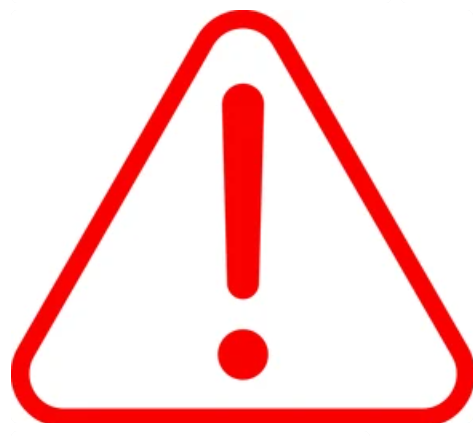
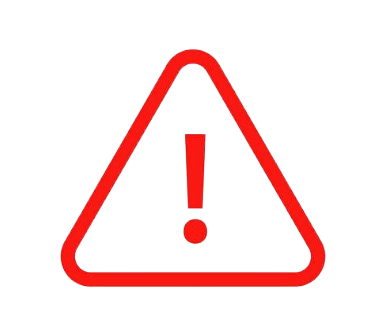
create po form

Changed region(s): [[0.0, 0.0, 1.0, 0.9851]]

diff --git a/ITP4519M/CreatePurchaseOrder.Designer.cs b/ITP4519M/CreatePurchaseOrder.Designer.cs
@@ -1,0 +1,184 @@
+namespace ITP4519M
+{
+    partial class CreatePurchaseOrder
+    {
+        /// <summary>
+        /// Required designer variable.
+        /// </summary>
+        private System.ComponentModel.IContainer components = null;
+
+        /// <summary>
+        /// Clean up any resources being used.
+        /// </summary>
+        /// <param name="disposing">true if managed resources should be disposed; otherwise, false.</param>
+        protected override void Dispose(bool disposing)
+        {
+            if (disposing && (components != null))
+            {
+                components.Dispose();
+            }
+            base.Dispose(disposing);
+        }
+
+        #region Windows Form Designer generated code
+
+        /// <summary>
+        /// Required method for Designer support - do not modify
+        /// the contents of this method with the code editor.
+        /// </summary>
+        private void InitializeComponent()
+        {
+            button1 = new Button();
+            dataGridView1 = new DataGridView();
+            label1 = new Label();
+            orderDateBox = new DateTimePicker();
+            label12 = new Label();
+            label2 = new Label();
+            dataGridView2 = new DataGridView();
+            label3 = new Label();
+            dataGridView3 = new DataGridView();
+            label4 = new Label();
+            ((System.ComponentModel.ISupportInitialize)dataGridView1).BeginInit();
+            ((System.ComponentModel.ISupportInitialize)dataGridView2).BeginInit();
+            ((System.ComponentModel.ISupportInitialize)dataGridView3).BeginInit();
+            SuspendLayout();
+            // 
+            // button1
+            // 
+            button1.FlatAppearance.BorderSize = 0;
+            button1.FlatStyle = FlatStyle.Flat;
+            button1.Font = new Font("Verdana", 16.2F, FontStyle.Bold, GraphicsUnit.Point, 0);
+            button1.Location = new Point(568, 12);
+            button1.Margin = new Padding(2, 3, 2, 3);
+            button1.Name = "button1";
+            button1.Size = new Size(40, 49);
+            button1.TabIndex = 34;
+            button1.Text = "X";
+            button1.UseVisualStyleBackColor = true;
+            // 
+            // dataGridView1
+            // 
+            dataGridView1.ColumnHeadersHeightSizeMode = DataGridViewColumnHeadersHeightSizeMode.AutoSize;
+            dataGridView1.Location = new Point(22, 427);
+            dataGridView1.Name = "dataGridView1";
+            dataGridView1.RowHeadersWidth = 51;
+            dataGridView1.Size = new Size(569, 183);
+            dataGridView1.TabIndex = 35;
+            // 
+            // label1
+            // 
+            label1.AutoSize = true;
+            label1.Location = new Point(22, 390);
+            label1.Name = "label1";
+            label1.Size = new Size(146, 20);
+            label1.TabIndex = 36;
+            label1.Text = "Supplier information";
+            // 
+            // orderDateBox
+            // 
+            orderDateBox.Location = new Point(264, 96);
+            orderDateBox.MinDate = new DateTime(2010, 7, 27, 0, 0, 0, 0);
+            orderDateBox.Name = "orderDateBox";
+            orderDateBox.Size = new Size(250, 27);
+            orderDateBox.TabIndex = 88;
+            orderDateBox.Visible = false;
+            // 
+            // label12
+            // 
+            label12.AutoSize = true;
+            label12.Font = new Font("Microsoft Sans Serif", 10.2F, FontStyle.Regular, GraphicsUnit.Point, 0);
+            label12.Location = new Point(89, 101);
+            label12.Margin = new Padding(5, 0, 5, 0);
+            label12.Name = "label12";
+            label12.Size = new Size(103, 20);
+            label12.TabIndex = 87;
+            label12.Text = "Order Date :";
+            label12.Visible = false;
+            // 
+            // label2
+            // 
+            label2.AutoSize = true;
+            label2.Location = new Point(22, 144);
+            label2.Name = "label2";
+            label2.Size = new Size(203, 20);
+            label2.TabIndex = 90;
+            label2.Text = "LM Contact staff information ";
+            // 
+            // dataGridView2
+            // 
+            dataGridView2.ColumnHeadersHeightSizeMode = DataGridViewColumnHeadersHeightSizeMode.AutoSize;
+            dataGridView2.Location = new Point(22, 181);
+            dataGridView2.Name = "dataGridView2";
+            dataGridView2.RowHeadersWidth = 51;
+            dataGridView2.Size = new Size(569, 187);
+            dataGridView2.TabIndex = 89;
+            // 
+            // label3
+            // 
+            label3.AutoSize = true;
+            label3.Location = new Point(22, 630);
+            label3.Name = "label3";
+            label3.Size = new Size(128, 20);
+            label3.TabIndex = 92;
+            label3.Text = "Purchase Products";
+            // 
+            // dataGridView3
+            // 
+            dataGridView3.ColumnHeadersHeightSizeMode = DataGridViewColumnHeadersHeightSizeMode.AutoSize;
+            dataGridView3.Location = new Point(22, 662);
+            dataGridView3.Name = "dataGridView3";
+            dataGridView3.RowHeadersWidth = 51;
+            dataGridView3.Size = new Size(569, 204);
+            dataGridView3.TabIndex = 91;
+            // 
+            // label4
+            // 
+            label4.AutoSize = true;
+            label4.Font = new Font("Segoe UI", 16.2F, FontStyle.Bold, GraphicsUnit.Point, 0);
+            label4.ForeColor = SystemColors.WindowText;
+            label4.Location = new Point(111, 37);
+            label4.Name = "label4";
+            label4.Size = new Size(376, 38);
+            label4.TabIndex = 93;
+            label4.Text = "Create New Purchase Order";
+            // 
+            // CreatePurchaseOrder
+            // 
+            AutoScaleDimensions = new SizeF(8F, 20F);
+            AutoScaleMode = AutoScaleMode.Font;
+            ClientSize = new Size(619, 828);
+            Controls.Add(label4);
+            Controls.Add(label3);
+            Controls.Add(dataGridView3);
+            Controls.Add(label2);
+            Controls.Add(dataGridView2);
+            Controls.Add(orderDateBox);
+            Controls.Add(label12);
+            Controls.Add(label1);
+            Controls.Add(dataGridView1);
+            Controls.Add(button1);
+            FormBorderStyle = FormBorderStyle.None;
+            Name = "CreatePurchaseOrder";
+            Text = "CreatePurchaseOrder";
+            Load += CreatePurchaseOrder_Load;
+            ((System.ComponentModel.ISupportInitialize)dataGridView1).EndInit();
+            ((System.ComponentModel.ISupportInitialize)dataGridView2).EndInit();
+            ((System.ComponentModel.ISupportInitialize)dataGridView3).EndInit();
+            ResumeLayout(false);
+            PerformLayout();
+        }
+
+        #endregion
+
+        private Button button1;
+        private DataGridView dataGridView1;
+        private Label label1;
+        private DateTimePicker orderDateBox;
+        private Label label12;
+        private Label label2;
+        private DataGridView dataGridView2;
+        private Label label3;
+        private DataGridView dataGridView3;
+        private Label label4;
+    }
+}

diff --git a/ITP4519M/RegisterForm.Designer.cs b/ITP4519M/RegisterForm.Designer.cs
@@ -90,7 +90,7 @@ namespace ITP4519M
             registerDisplaynameBox.BackColor = SystemColors.Menu;
             registerDisplaynameBox.BorderStyle = BorderStyle.None;
             registerDisplaynameBox.Font = new Font("Microsoft Sans Serif", 10.2F, FontStyle.Regular, GraphicsUnit.Point, 0);
-            registerDisplaynameBox.Location = new Point(5, 7);
+            registerDisplaynameBox.Location = new Point(5, 4);
             registerDisplaynameBox.Margin = new Padding(5, 4, 5, 4);
             registerDisplaynameBox.Name = "registerDisplaynameBox";
             registerDisplaynameBox.Size = new Size(179, 20);
@@ -444,6 +444,8 @@ namespace ITP4519M
             // 
             // pictureBox1
             // 
+            pictureBox1.Image = Properties.Resources.red_alert;
+            pictureBox1.InitialImage = null;
             pictureBox1.Location = new Point(187, 2);
             pictureBox1.Margin = new Padding(3, 2, 3, 2);
             pictureBox1.Name = "pictureBox1";
@@ -460,16 +462,17 @@ namespace ITP4519M
             panel3.Controls.Add(registerDisplaynameBox);
             panel3.Location = new Point(532, 165);
             panel3.Name = "panel3";
-            panel3.Size = new Size(216, 31);
+            panel3.Size = new Size(218, 28);
             panel3.TabIndex = 78;
             panel3.Paint += panel3_Paint;
             // 
             // pictureBox3
             // 
-            pictureBox3.Location = new Point(183, 2);
+            pictureBox3.Image = Properties.Resources.red_alert;
+            pictureBox3.Location = new Point(188, 2);
             pictureBox3.Margin = new Padding(3, 2, 3, 2);
             pictureBox3.Name = "pictureBox3";
-            pictureBox3.Size = new Size(30, 26);
+            pictureBox3.Size = new Size(24, 24);
             pictureBox3.SizeMode = PictureBoxSizeMode.StretchImage;
             pictureBox3.TabIndex = 76;
             pictureBox3.TabStop = false;

diff --git a/ITP4519M/CreatePurchaseOrder.cs b/ITP4519M/CreatePurchaseOrder.cs
@@ -1,0 +1,25 @@
+using System;
+using System.Collections.Generic;
+using System.ComponentModel;
+using System.Data;
+using System.Drawing;
+using System.Linq;
+using System.Text;
+using System.Threading.Tasks;
+using System.Windows.Forms;
+
+namespace ITP4519M
+{
+    public partial class CreatePurchaseOrder : Form
+    {
+        public CreatePurchaseOrder()
+        {
+            InitializeComponent();
+        }
+
+        private void CreatePurchaseOrder_Load(object sender, EventArgs e)
+        {
+
+        }
+    }
+}

diff --git a/ITP4519M/Properties/Resources.Designer.cs b/ITP4519M/Properties/Resources.Designer.cs
@@ -119,6 +119,15 @@ namespace ITP4519M.Properties {
             }
         }
 
+        internal static System.Drawing.Bitmap red_alert
+        {
+            get
+            {
+                object obj = ResourceManager.GetObject("red_alert", resourceCulture);
+                return ((System.Drawing.Bitmap)(obj));
+            }
+        }
+
         internal static System.Drawing.Bitmap dashboard_background
         {
             get
